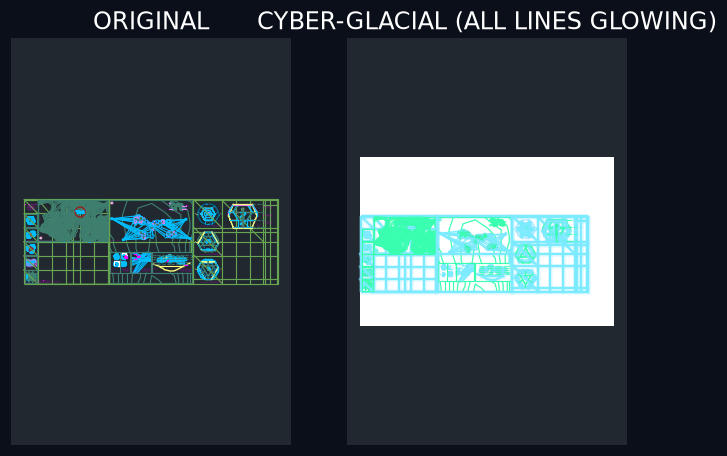
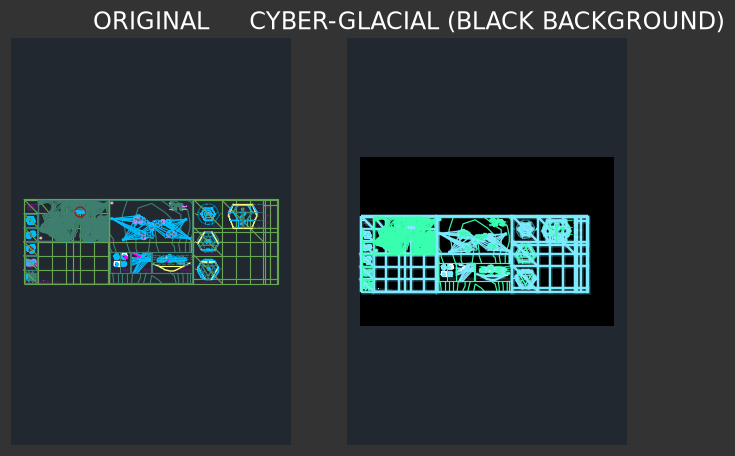
Make CAD background pure black (0,0,0) to save printer ink
- navy #0A0F1A background printed with C+M+K (rich dark) = lots of colour ink
- pure black (0,0,0) prints with only the K cartridge
- also fixed backdrop hatch to BYLAYER so it follows the BACKGROUND layer
  colour (was ACI 7 due to set_solid_fill default)

diff --git a/recolor_dxf.py b/recolor_dxf.py
@@ -179,9 +179,11 @@ def main():
               f"<- {len(copies)} entities from {spec['sources']}")
 
     # 5. background rectangle (dark void behind the whole board) ------------
+    # Pure black (0,0,0) instead of the navy #0A0F1A: black prints with only
+    # the K (black) cartridge, while navy needs C+M+K = much more ink.
     print("\n=== background layer ===")
     bg_layer = doc.layers.add("BACKGROUND", color=7)
-    bg_layer.rgb = VOID_DARK
+    bg_layer.rgb = (0, 0, 0)
     bg_layer.dxf.lineweight = -3
     bg_layer.dxf.linetype = "Continuous"
 
@@ -195,14 +197,14 @@ def main():
     y2 = ext.extmax.y + pad
 
     backdrop = msp.add_hatch()
+    backdrop.set_solid_fill(color=256)   # BYLAYER -> follows BACKGROUND layer (0,0,0)
     backdrop.dxf.layer = "BACKGROUND"
     backdrop.dxf.color = 256
-    backdrop.set_solid_fill()
     backdrop.paths.add_polyline_path(
         [(x1, y1), (x2, y1), (x2, y2), (x1, y2)], is_closed=True
     )
     print(f"  BACKGROUND rectangle ({x1:.0f},{y1:.0f}) -> ({x2:.0f},{y2:.0f}) "
-          f"VOID_DARK {VOID_DARK}")
+          f"pure black (0,0,0)")
 
     # physically order the modelspace: backdrop -> fills -> glow -> linework
     # (this also fixes the database order so previews/plots match the draw order)
